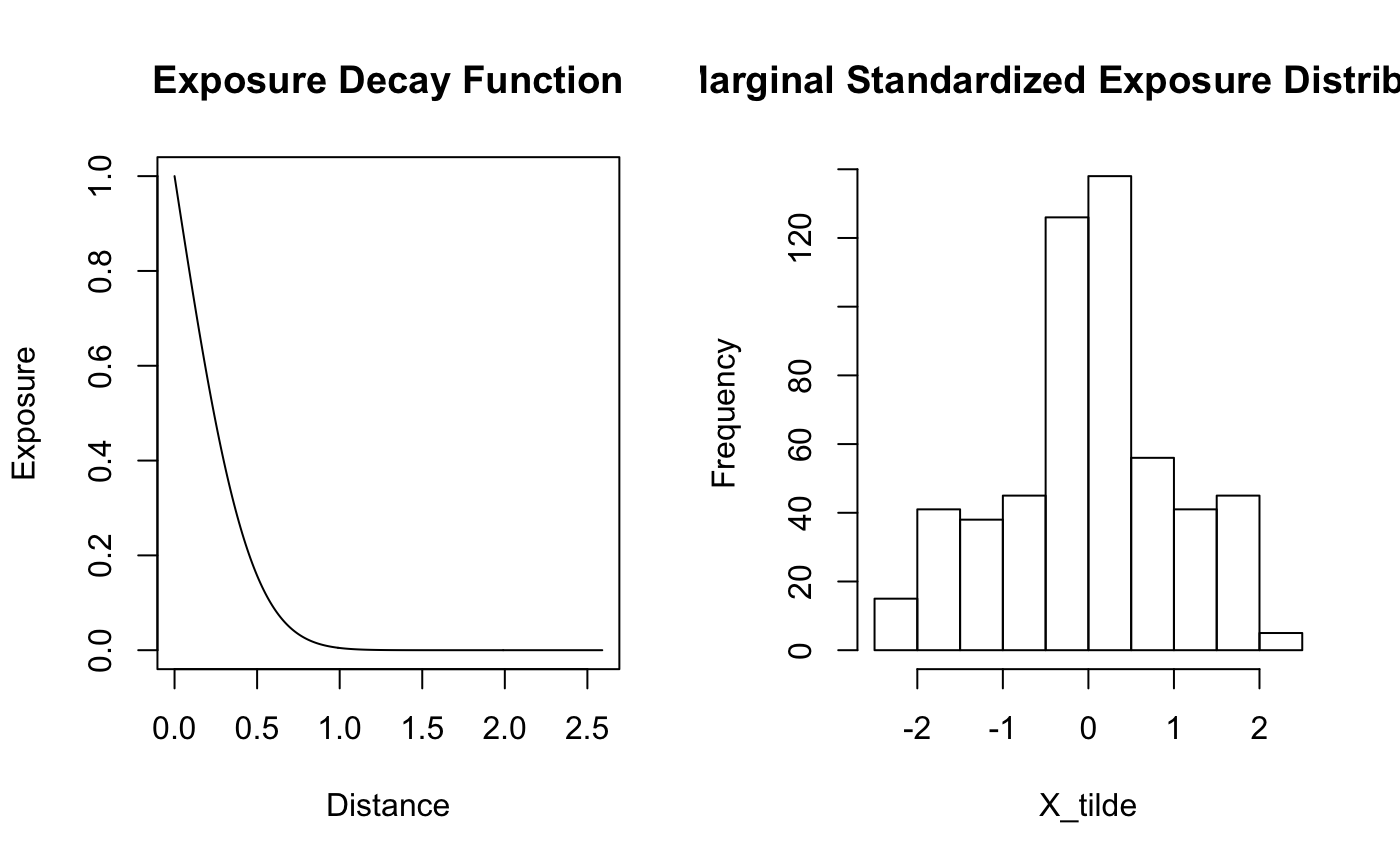
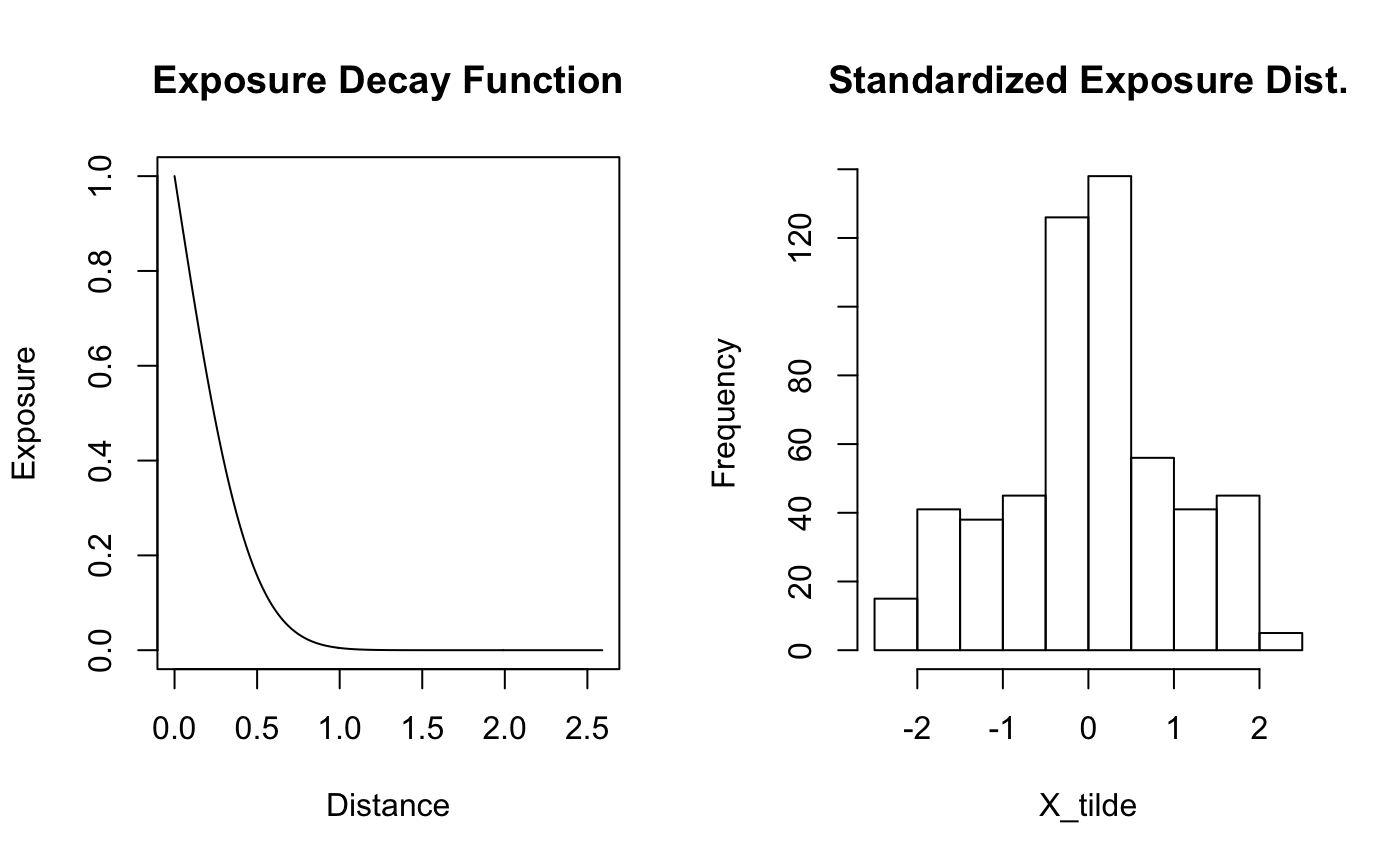
quick edits to Introduction vignette

Changed region(s): [[0.4914, 0.0624, 1.0, 0.1249]]

diff --git a/docs/articles/Introduction.html b/docs/articles/Introduction.html
@@ -124,7 +124,7 @@ bef_df &lt;-<span class="st"> </span><span class="kw"><a href="http://dplyr.tidy
 <p><span class="math display">\[
 E[Y_i] = \alpha + Z_i \delta + X_i(\theta)\beta\\
 X_i(\theta) = \sum_{d \in \mathcal{D}_i} \text{w}(\frac{d}{\theta})
-\]</span> <span class="math inline">\(w\)</span> is a real-valued function such that <span class="math inline">\(w:\mathbb{R} \to [0,1]\)</span>. Either monotonically decreasing or increasing depending on whether one is modeling a spatial or temporal relationship between the features and subjects, respectively. The default weight function for a spatial decay function in the <code>rstap</code> package is the complementary error function. Though others are available. For examples, of others, see the <a href="https://biostatistics4socialimpact.github.io/rstap/articles/misspecified-weightfunction.html">!Mis-Specified Weight Function</a> vignette.</p>
+\]</span> <span class="math inline">\(w\)</span> is a real-valued function such that <span class="math inline">\(w:[0.\infty] \to [0,1]\)</span>. Furthermore, we have <span class="math inline">\(w\)</span> either monotonically decreasing or increasing depending on whether one is modeling a spatial or temporal relationship between the features and subjects, respectively. The default weight function for a spatial decay function in the <code>rstap</code> package is the <a href="https://en.wikipedia.org/wiki/Error_function">complementary error function</a>, though others are available. For examples of others in use in the <code>rstap</code> package see the <a href="https://biostatistics4socialimpact.github.io/rstap/articles/misspecified-weightfunction.html">Mis-Specified Weight Function</a> vignette.</p>
 <p>For this document we use the following fixed parameters to simulate our dataset:</p>
 <div class="sourceCode"><pre class="sourceCode r"><code class="sourceCode r">alpha &lt;-<span class="st"> </span><span class="fl">22.5</span>
 Z &lt;-<span class="st"> </span><span class="kw">rbinom</span>(<span class="dt">n =</span> num_subj, <span class="dt">prob =</span> .<span class="dv">45</span>, <span class="dt">size =</span> <span class="dv">1</span>)
@@ -146,7 +146,7 @@ X_theta_one &lt;-<span class="st"> </span>pracma<span class="op">::</span><span 
 <span class="kw">par</span>(<span class="dt">mfrow =</span> <span class="kw">c</span>(<span class="dv">1</span>,<span class="dv">2</span>))
 <span class="kw">plot</span>(d,X_theta_one,<span class="dt">type=</span><span class="st">'l'</span>,<span class="dt">main =</span> <span class="st">"Exposure Decay Function"</span>, <span class="dt">xlab =</span> <span class="st">"Distance"</span>,
      <span class="dt">ylab =</span> <span class="st">"Exposure"</span>)
-<span class="kw">hist</span>(X_tilde, <span class="dt">main =</span> <span class="st">"Marginal Standardized Exposure Distribution"</span>)</code></pre></div>
+<span class="kw">hist</span>(X_tilde, <span class="dt">main =</span> <span class="st">"Standardized Exposure Dist."</span>)</code></pre></div>
 <p><img src="Introduction_files/figure-html/exposure_1-1.png" width="700"></p>
 <p>We then set-up the two dataframes needed for stap to model these data. The first is a fairly typical data frame with the outcome, covariates and subject ID. This is the same kind of dataset that could be used with a function like <code>lm()</code></p>
 <div class="sourceCode"><pre class="sourceCode r"><code class="sourceCode r">subject_data &lt;-<span class="st"> </span><span class="kw"><a href="http://dplyr.tidyverse.org/reference/reexports.html">data_frame</a></span>(<span class="dt">subj_id =</span> <span class="dv">1</span><span class="op">:</span>num_subj,
